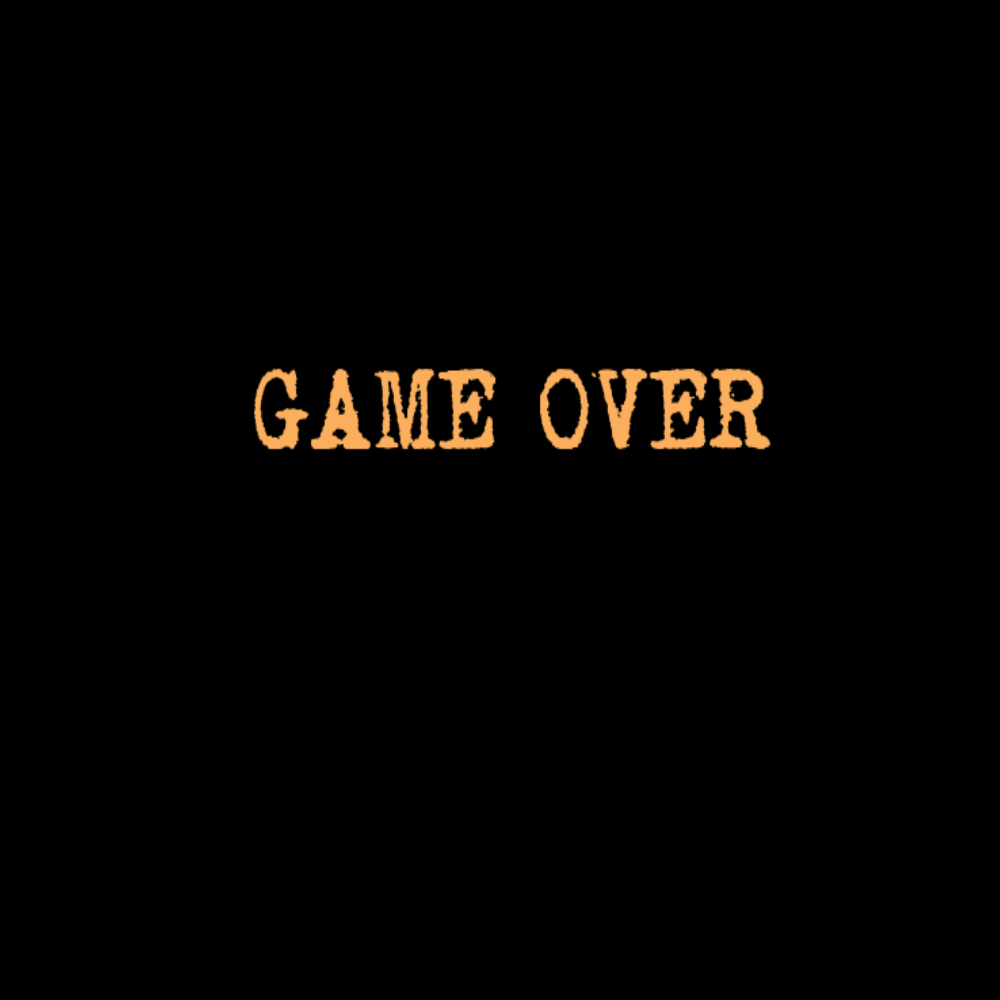
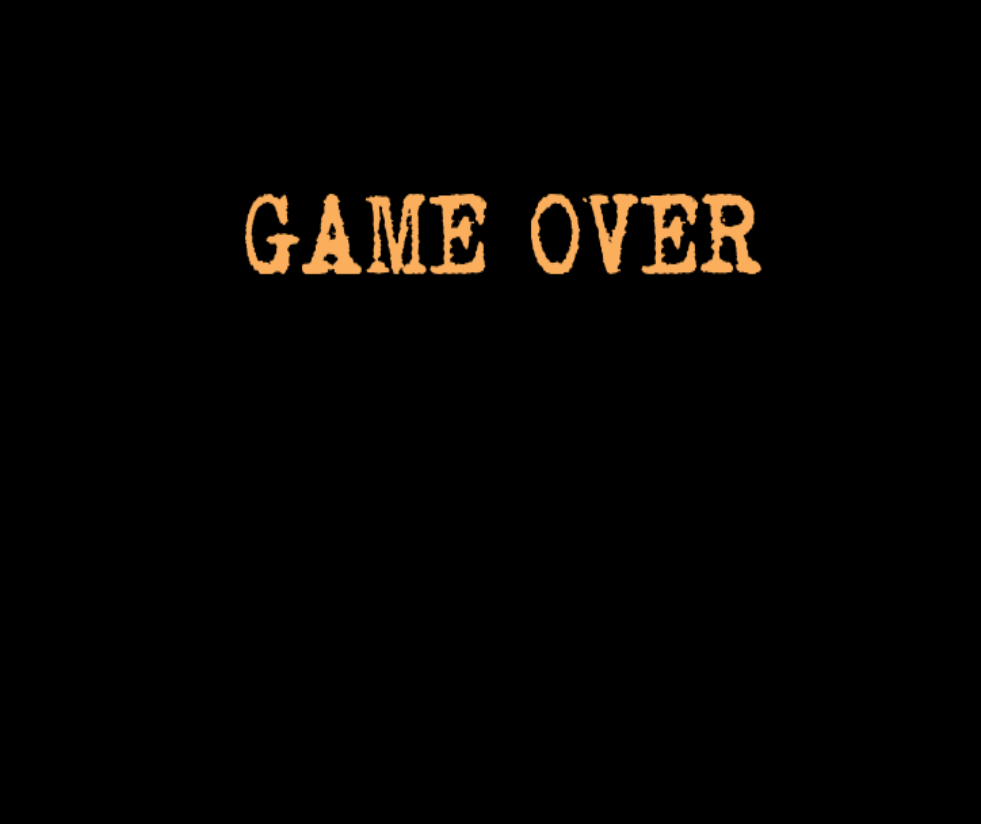
back button

Changed region(s): [[0.2446, 0.2124, 0.7951, 0.3337], [0.2446, 0.3641, 0.7645, 0.4551]]

diff --git a/js/instruction.js b/js/instruction.js
@@ -2,11 +2,13 @@ var game = new Game(1000, 600, 'dark maze');
 var instructionPage;
 var instructions;
 var startButton;
+var backButton
 
 function preload() {
 	
 	instructions = new Sprite("img/Instructions.png");
 	startButton = new Button("img/startButton.png", 240, 60, 700, 200);
+	backButton = new Button("img/backButton.png", 216, 70, 700, 300);
 }
 
 
@@ -17,8 +19,17 @@ function create() {
 	startButton.addOverAction(() => {}, [1]);
 	startButton.addOutAction(() => {}, [0]);
 	
+	backButton.createButton();
+	backButton.addOverAction(() => {}, [1]);
+	backButton.addOutAction(() => {}, [0]);
+	
 	startButton.addUpAction( function(){
 		window.location.href = "game.html"
+		
+	} );
+	
+	backButton.addUpAction( function(){
+		window.location.href = "menu.html"
 		
 	} );
 }

diff --git a/js/game.js b/js/game.js
@@ -119,14 +119,14 @@ function wonGame() {
 	
 	backgroundmusic.play();
 	
-	fires[0].create(300, 400);
-	fires[1].create(700, 400);
+	fires[0] = fire.create(300, 400);
+	fires[1] = fire.create(700, 400);
 	
 	fires[0].addAnimation('burn', [0, 1, 2], 10);
 	fires[1].addAnimation('burn', [0, 1, 2], 10);
 	fires[0].playAnimation('burn');
 	fires[1].playAnimation('burn');	
-	gameOver.create(0, -200);
+	gameOver.create(0, 0);
 	
 	txt.textContent = '';
 	monstersound.stop()
@@ -158,7 +158,7 @@ function lostGame() {
 		jump.kill();
 		
 		backgroundmusic.play();
-		gameOver.create(0, -200);
+		gameOver.create(0, 0);
 		
 		fires[0] = fire.create(200, 250);
 		fires[1] = fire.create(700, 250);

diff --git a/js/menu.js b/js/menu.js
@@ -8,6 +8,7 @@ function preload() {
 	instructionButton = new Button("img/instructionButton.png", 521, 60, 400, 400);
 	snd_start = new Audio("sound/atmosphere-fixed.wav")
 	
+	
 	backgroundmusic = new soundSource(0, 0, snd_start, new AudioContext());
 	
 }
